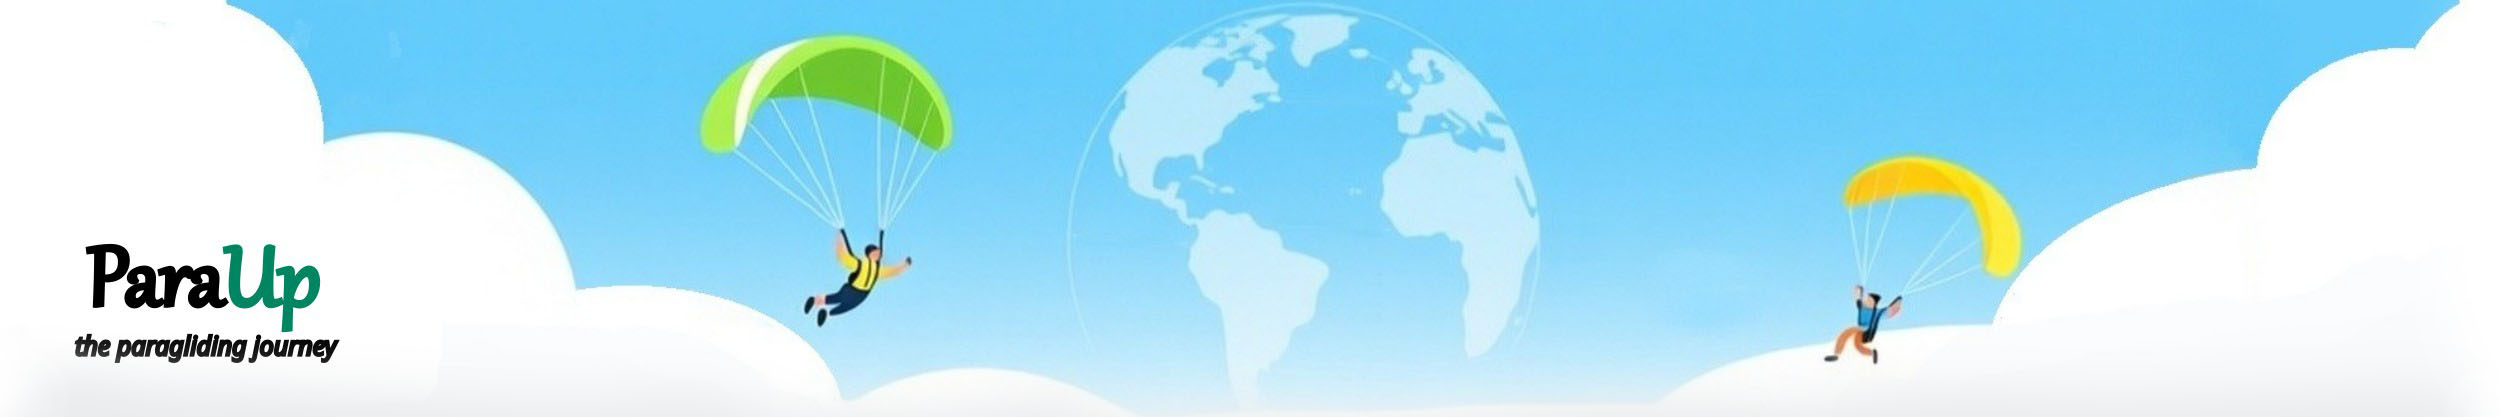
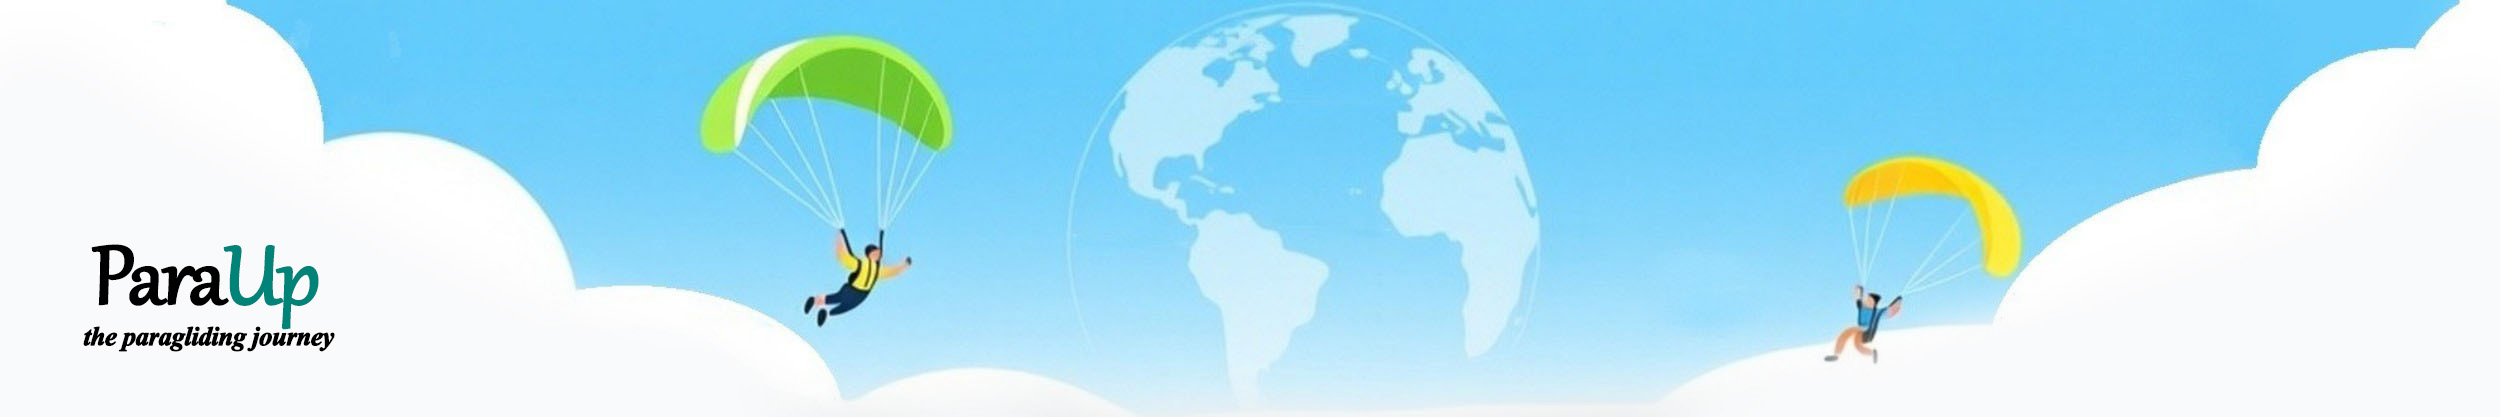
Update Home

diff --git a/app/components/homeComponents/HomeForm.tsx b/app/components/homeComponents/HomeForm.tsx
@@ -70,7 +70,7 @@ export default function HomeForm({
   };
 
   return (
-    <form className="flex flex-wrap items-end gap-4 bg-white text-gray-800  p-4 rounded-xl shadow-md max-w-full">
+    <form className="flex flex-wrap items-end gap-4 bg-white text-gray-800  p-4 max-w-full">
       {/* Country */}
       <div className="flex flex-col flex-1 min-w-[150px]">
         <label htmlFor="country" className="mb-1 font-medium text-gray-700 ">
@@ -80,7 +80,7 @@ export default function HomeForm({
           name="country"
           id="country"
           onChange={handleChange}
-          className="border border-gray-300  rounded-lg p-2 focus:outline-none focus:ring-2 focus:ring-blue-400  transition-colors duration-200"
+          className="border border-gray-300  rounded-sm p-2 focus:outline-none focus:ring-2 focus:ring-blue-100  transition-colors duration-200"
         >
           <option value="">Select a country</option>
           {countrys.map((c) => (
@@ -100,7 +100,7 @@ export default function HomeForm({
           name="region"
           id="region"
           onChange={handleChange}
-          className="border border-gray-300  rounded-lg p-2 focus:outline-none focus:ring-2 focus:ring-blue-400  transition-colors duration-200"
+          className="border border-gray-300  rounded-sm p-2 focus:outline-none focus:ring-2 focus:ring-blue-100  transition-colors duration-200"
         >
           <option value="">Select a region</option>
           {regions.map((r) => (
@@ -120,7 +120,7 @@ export default function HomeForm({
           name="season"
           id="season"
           onChange={handleChange}
-          className="border border-gray-300  rounded-lg p-2 focus:outline-none focus:ring-2 focus:ring-blue-400  transition-colors duration-200"
+          className="border border-gray-300  rounded-sm p-2 focus:outline-none focus:ring-2 focus:ring-blue-100  transition-colors duration-200"
         >
           <option value="">Select a season</option>
           {seasons.map((s) => (
@@ -140,7 +140,7 @@ export default function HomeForm({
           name="month"
           id="month"
           onChange={handleChange}
-          className="border border-gray-300  rounded-lg p-2 focus:outline-none focus:ring-2 focus:ring-blue-400  transition-colors duration-200"
+          className="border border-gray-300  rounded-sm p-2 focus:outline-none focus:ring-2 focus:ring-blue-100  transition-colors duration-200"
         >
           <option value="">Select a month</option>
           {months.map((m) => (
@@ -157,7 +157,7 @@ export default function HomeForm({
           onClick={(e) => {
             e.preventDefault();
           }}
-          className="bg-gray-700 hover:bg-gray-800 disabled:opacity-50 text-white px-4 py-2 rounded-lg font-medium transition-colors"
+          className="bg-gray-700 hover:bg-gray-800 disabled:opacity-50 text-white px-4 py-2 rounded-sm font-medium transition-colors"
         >
           Filter
         </button>

diff --git a/app/components/NavBar.tsx b/app/components/NavBar.tsx
@@ -5,7 +5,7 @@ import { Suspense } from "react";
 
 export default function NavBarServer() {
   return (
-    <nav className="w-full xl:w-[80vw] mx-auto bg-gray-50  shadow-md h-16">
+    <nav className="w-full bg-gray-50  h-16">
       {/* Desktop */}
       <div className="hidden md:flex max-w-full mx-auto pl-4 justify-between items-center h-full">
         {/* Logo + Menu */}
@@ -14,7 +14,7 @@ export default function NavBarServer() {
             <li>
               <Link
                 href="/"
-                className="hover:text-green-500  transition-colors duration-200"
+                className="hover:text-gray-900 hover:font-bold  transition-colors duration-200"
               >
                 Home
               </Link>
@@ -22,7 +22,7 @@ export default function NavBarServer() {
             <li>
               <Link
                 href="/explore"
-                className="hover:text-green-500  transition-colors duration-200"
+                className="hover:text-gray-900 hover:font-bold transition-colors duration-200"
               >
                 Explore Sites
               </Link>
@@ -30,7 +30,7 @@ export default function NavBarServer() {
             <li>
               <Link
                 href="/map"
-                className="hover:text-green-500  transition-colors duration-200"
+                className="hover:text-gray-900 hover:font-bold  transition-colors duration-200"
               >
                 Map Sites
               </Link>
@@ -38,7 +38,7 @@ export default function NavBarServer() {
             <li>
               <Link
                 href="/contact"
-                className="hover:text-green-500  transition-colors duration-200"
+                className="hover:text-gray-900 hover:font-bold  transition-colors duration-200"
               >
                 Contact
               </Link>
@@ -46,7 +46,7 @@ export default function NavBarServer() {
             <li>
               <Link
                 href="/wing-up"
-                className="hover:text-green-500  transition-colors duration-200"
+                className="hover:text-gray-900 hover:font-bold  transition-colors duration-200"
               >
                 User Area
               </Link>
@@ -54,7 +54,7 @@ export default function NavBarServer() {
             <li>
               <Link
                 href="/about"
-                className="hover:text-green-500  transition-colors duration-200"
+                className="hover:text-gray-900 hover:font-bold  transition-colors duration-200"
               >
                 About
               </Link>

diff --git a/app/layout.tsx b/app/layout.tsx
@@ -10,6 +10,7 @@ import GoogleAnalytics from "./lib/GoogleAnalytics";
 import { Metadata } from "next";
 import Cookie from "./components/Cookie";
 import { cookies } from "next/headers";
+import UnderConstruction from "./components/UnderConstruction";
 
 const roboto = Roboto({
   subsets: ["latin"],
@@ -48,7 +49,7 @@ export default async function RootLayout({
   return (
     <html lang="en">
       <body
-        className={`${roboto.variable} ${oswald.variable} antialiased min-h-screen flex flex-col `}
+        className={`${roboto.variable} ${oswald.variable} antialiased  flex flex-col  `}
       >
         <Cookie />
         {analyticsAccepted && (
@@ -58,15 +59,16 @@ export default async function RootLayout({
             <GoogleAnalytics />
           </>
         )}
-
-        <Banner />
-
-        <NavBar />
+        <UnderConstruction />
+        <div className="w-full md:w-[90vw] xl:w-[80vw]  md:mx-auto mx-auto ">
+          <Banner />
+          <NavBar />
+        </div>
 
         {/* Main + RightBar */}
-        <div className="flex flex-1 flex-col lg:flex-row min-h-0 bg-white w-full 2xl:w-[80vw] mx-auto ">
+        <div className=" px-[1px]  flex flex-col lg:flex-row  bg-white w-full md:w-[90vw] xl:w-[80vw]  md:mx-auto mx-auto ">
           {/* Content principal */}
-          <main className="flex-1 flex flex-col overflow-auto  ">
+          <main className="flex-1 flex flex-col overflow-auto  shadow-sm ">
             {children}
 
             {/* <!-- Google Tag Manager (noscript) --> */}
@@ -82,7 +84,7 @@ export default async function RootLayout({
           </main>
 
           {/* RightBar */}
-          <aside className="w-full lg:w-64 mt-4 lg:mt-0 lg:shrink-0 lg:flex lg:flex-col">
+          <aside className="w-full lg:w-64 mt-4 lg:mt-0 lg:shrink-0 lg:flex lg:flex-col ">
             <RightBar />
           </aside>
         </div>

diff --git a/app/page.tsx b/app/page.tsx
@@ -4,6 +4,7 @@ import SearchHome from "./components/homeComponents/SearchHome";
 import ViewAllPlaces from "./components/homeComponents/ViewAllPlaces";
 import SEO from "./components/Seo";
 import TopVideo from "./components/TopVideo/TopVideo";
+import TopSites from "./components/homeComponents/TopSites";
 
 export default function Home() {
   const seo =
@@ -16,8 +17,8 @@ export default function Home() {
         <HomeMap />
       </Suspense>
       <SearchHome />
-      <div className="flex flex-col md:flex-row gap-2 mb-2 mt-2">
-        <div className="w-full md:w-5/7 md:border-r md:border-gray-100 md:pr-2">
+      <div className="mx-2 ">
+        <div className="w-full ">
           <Suspense
             fallback={
               <div className="text-gray-500">
@@ -25,10 +26,10 @@ export default function Home() {
               </div>
             }
           >
-            <ViewAllPlaces />
+            <TopSites />
           </Suspense>
         </div>
-        <div className="w-full md:w-2/5 md:pl-2">
+        <div className="w-full mx-2">
           <Suspense
             fallback={<div className="text-gray-500">Loading videos...</div>}
           >

diff --git a/app/components/RightBar.tsx b/app/components/RightBar.tsx
@@ -5,7 +5,7 @@ import ViewRisk from "./foehn/ViewRisk";
 
 export default function RightBar() {
   return (
-    <aside className="w-full h-full lg:w-64 bg-white  shadow-md flex flex-col items-center py-3 gap-4 border-l border-gray-200 ">
+    <aside className="w-full h-full lg:w-64 bg-white  flex flex-col items-center py-3 gap-4 border-r border-l border-r-1 border-gray-100 ">
       {/* ViewRisk component */}
       <div className="w-full px-3">
         <ViewRisk />
@@ -32,7 +32,21 @@ export default function RightBar() {
       </div>
 
       {/* Extra section */}
-      <div className="flex flex-col items-center gap-2 w-full px-3"></div>
+      <div className="flex flex-col items-center gap-2 w-full px-3 ">
+        <button
+          className="
+    bg-linear-to-r from-blue-500 to-indigo-500 
+    text-white font-semibold 
+    px-6 py-2 rounded-lg 
+    shadow-md 
+    hover:brightness-105 hover:scale-105 
+    transition 
+    duration-200
+  "
+        >
+          Donate
+        </button>
+      </div>
     </aside>
   );
 }

diff --git a/app/components/homeComponents/TopSites.tsx b/app/components/homeComponents/TopSites.tsx
@@ -1,0 +1,30 @@
+import Image from "next/image";
+import Top from "@/public/icons/top.png";
+import TopSiteCard from "./TopSiteCard";
+import { get_top_spots } from "./homeAction";
+
+export default async function TopSites() {
+  const topSpots = await get_top_spots();
+  console.log("Top spots:", topSpots);
+  return (
+    <div>
+      <div className="mb-6">
+        <h1 className="text-2xl font-bold text-gray-900 flex gap-2">
+          <Image src={Top} alt="" width={25} height={10} className="mt-2" />
+          TOP Paragliding Flying Spots
+        </h1>
+
+        <p className="mt-2 text-gray-600">
+          Discover the best paragliding flying sites, voted by pilots from our
+          community. Find safe, tested locations perfect for unforgettable
+          flights.
+        </p>
+      </div>
+      <div className="flex flex-col">
+        {topSpots.map((spot) => (
+          <TopSiteCard spot={spot} key={spot.regionId} />
+        ))}
+      </div>
+    </div>
+  );
+}

diff --git a/app/components/users/ClientUserDesktop.tsx b/app/components/users/ClientUserDesktop.tsx
@@ -32,7 +32,7 @@ export default function ClientUserDesktop({ session }: { session: Session }) {
 
   if (!session)
     return (
-      <div className="gap-3 items-center flex justify-end p-5 bg-gray-50  shadow-sm h-full w-fit">
+      <div className="gap-3 items-center flex justify-end p-5 bg-gray-50  h-full w-fit">
         <Link
           href="/user/login"
           className="px-3 py-1 border border-gray-300 text-gray-700 rounded  hover:bg-gray-100 transition-colors duration-200"
@@ -41,7 +41,7 @@ export default function ClientUserDesktop({ session }: { session: Session }) {
         </Link>
         <Link
           href="/user/register"
-          className="px-3 py-1 bg-gray-800 text-white  hover:bg-gray-900 transition-colors duration-200"
+          className="px-3 py-1 border border-gray-800 text-gray-100 rounded bg-gray-800 hover:bg-gray-700 transition-colors duration-200"
         >
           Sign up
         </Link>

diff --git a/app/components/homeComponents/homeAction.ts b/app/components/homeComponents/homeAction.ts
@@ -1,0 +1,33 @@
+import { prisma } from "@/app/api/prisma";
+
+export async function get_top_spots() {
+  const n = 12;
+
+  const likes = await prisma.regionLike.groupBy({
+    by: ["regionId"],
+    _count: { regionId: true },
+    orderBy: { _count: { regionId: "desc" } },
+    take: n,
+  });
+
+  const tops = await Promise.all(
+    likes.map(async (like, index) => {
+      const region = await prisma.region.findUnique({
+        where: { id: like.regionId },
+        select: { name: true, landings: true, takeoffs: true, country: true },
+      });
+
+      return {
+        id: index,
+        name: region?.name ?? "Unknown region",
+        country: region?.country.name ?? "Unknown country",
+        regionId: like.regionId,
+        count: like._count.regionId,
+        landingsCount: region?.landings.length ?? 0,
+        takeoffsCount: region?.takeoffs.length ?? 0,
+      };
+    })
+  );
+
+  return tops;
+}

diff --git a/app/components/homeComponents/TopSiteCard.tsx b/app/components/homeComponents/TopSiteCard.tsx
@@ -1,0 +1,32 @@
+import Link from "next/link";
+
+type TopSiteCardProps = {
+  spot: Spot;
+};
+type Spot = {
+  id: number;
+  name: string;
+  regionId: number;
+  count: number;
+  landingsCount: number;
+  takeoffsCount: number;
+  country: string;
+};
+
+export default function TopSiteCard({ spot }: TopSiteCardProps) {
+  return (
+    <Link href={`/region/${spot.regionId}`}>
+      <div className="w-full md:w-1/3 p-4 border border-gray-100">
+        <h2 className="text-xl font-semibold text-gray-800">
+          {spot.name} : {spot.country}
+        </h2>
+        <p className="text-gray-700 w-full items-center text-green-800 font-semibold">
+          Votes: {spot.count}{" "}
+        </p>{" "}
+        <p>
+          Takeoff: {spot.takeoffsCount} Landing: {spot.landingsCount}
+        </p>
+      </div>
+    </Link>
+  );
+}

diff --git a/app/map/page.tsx b/app/map/page.tsx
@@ -9,7 +9,12 @@ import MapPageClient from "./MapPageClient";
 import { Country, Region, Takeoff, Landing } from "@prisma/client";
 import { Site } from "../types";
 
-export default async function MapRutePage() {
+interface PageProps {
+  searchParams: { region?: string };
+}
+
+export default async function MapRutePage({ searchParams }: PageProps) {
+  const selected = await searchParams;
   const countriesRaw = await get_all_country();
   const regionsRaw = await get_all_regions();
   const takeoffsRaw = await get_all_takeoff();

diff --git a/app/components/TopVideo/TopVideoClient.tsx b/app/components/TopVideo/TopVideoClient.tsx
@@ -19,7 +19,7 @@ export default function TopVideoServer({ topVideos }: Props) {
   return (
     <div className="space-y-2 dark:text-gray-800">
       <div></div>
-      <h2 className="text-xl font-bold text-gray-800"> Top Videos</h2>
+      <h2 className="text-xl font-bold text-gray-800"> Top Videos:</h2>
       {topVideos.map((v) => {
         const videoId = extractYouTubeId(v.video?.url);
         return (

diff --git a/app/components/TopVideo/RandomVideo.tsx b/app/components/TopVideo/RandomVideo.tsx
@@ -22,7 +22,7 @@ export default function RandomVideoServer({ videos }: RandomVideoProps) {
 
   return (
     <div className="space-y-2 dark:text-gray-800">
-      <h2 className="text-2xl font-bold text-gray-800">You mai like</h2>
+      <h2 className="text-2xl font-bold text-gray-800">You mai like :</h2>
 
       {videos.map((video) => {
         const videoId = extractYouTubeId(video.url);
